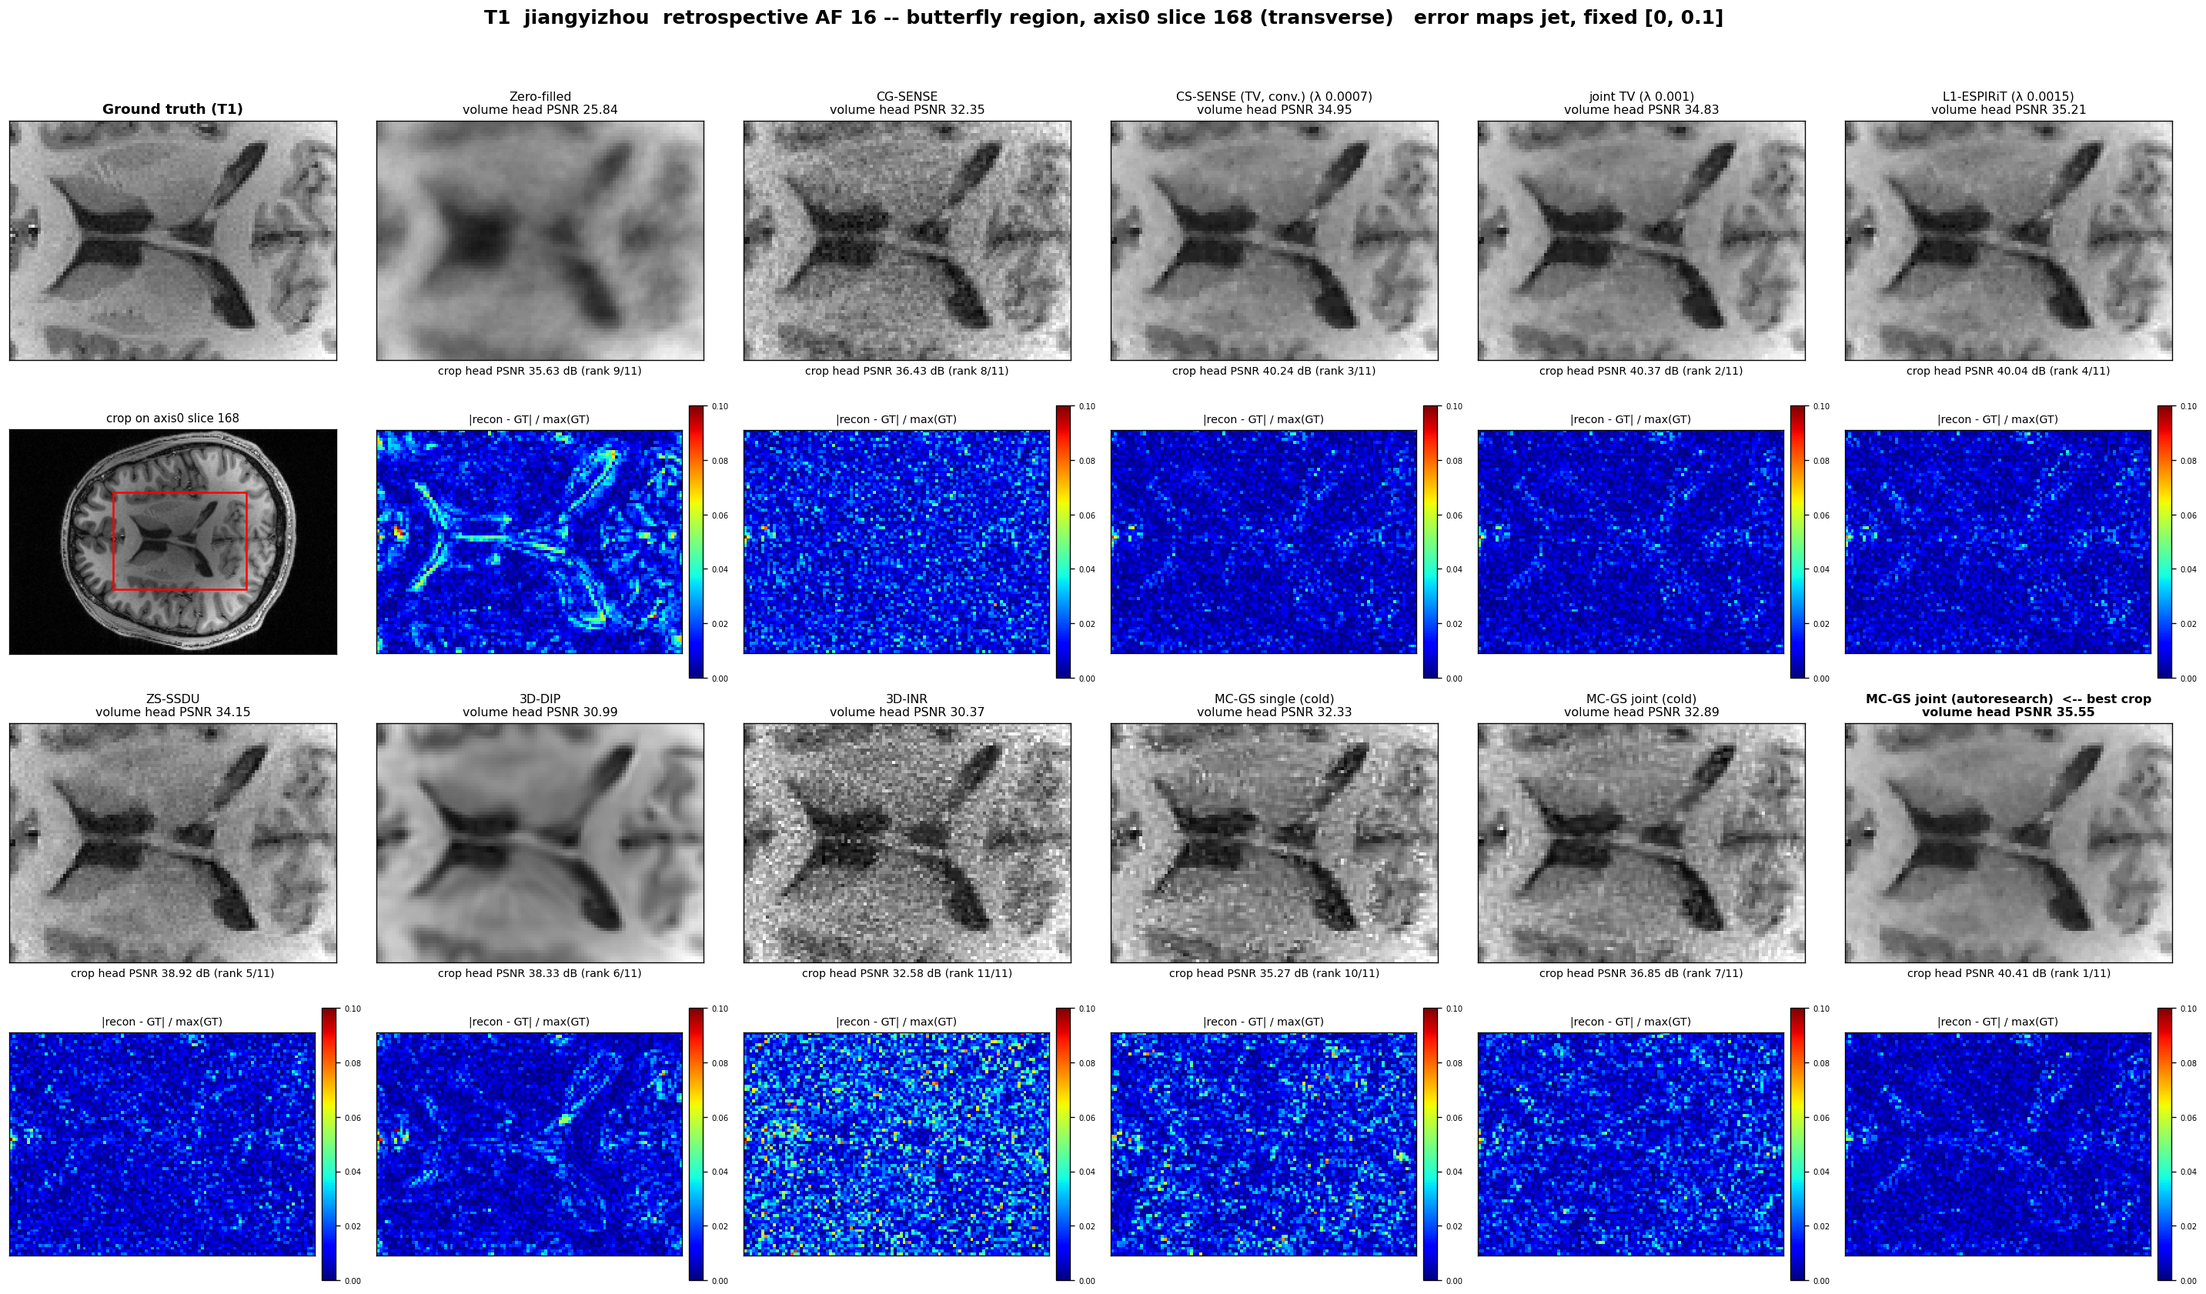
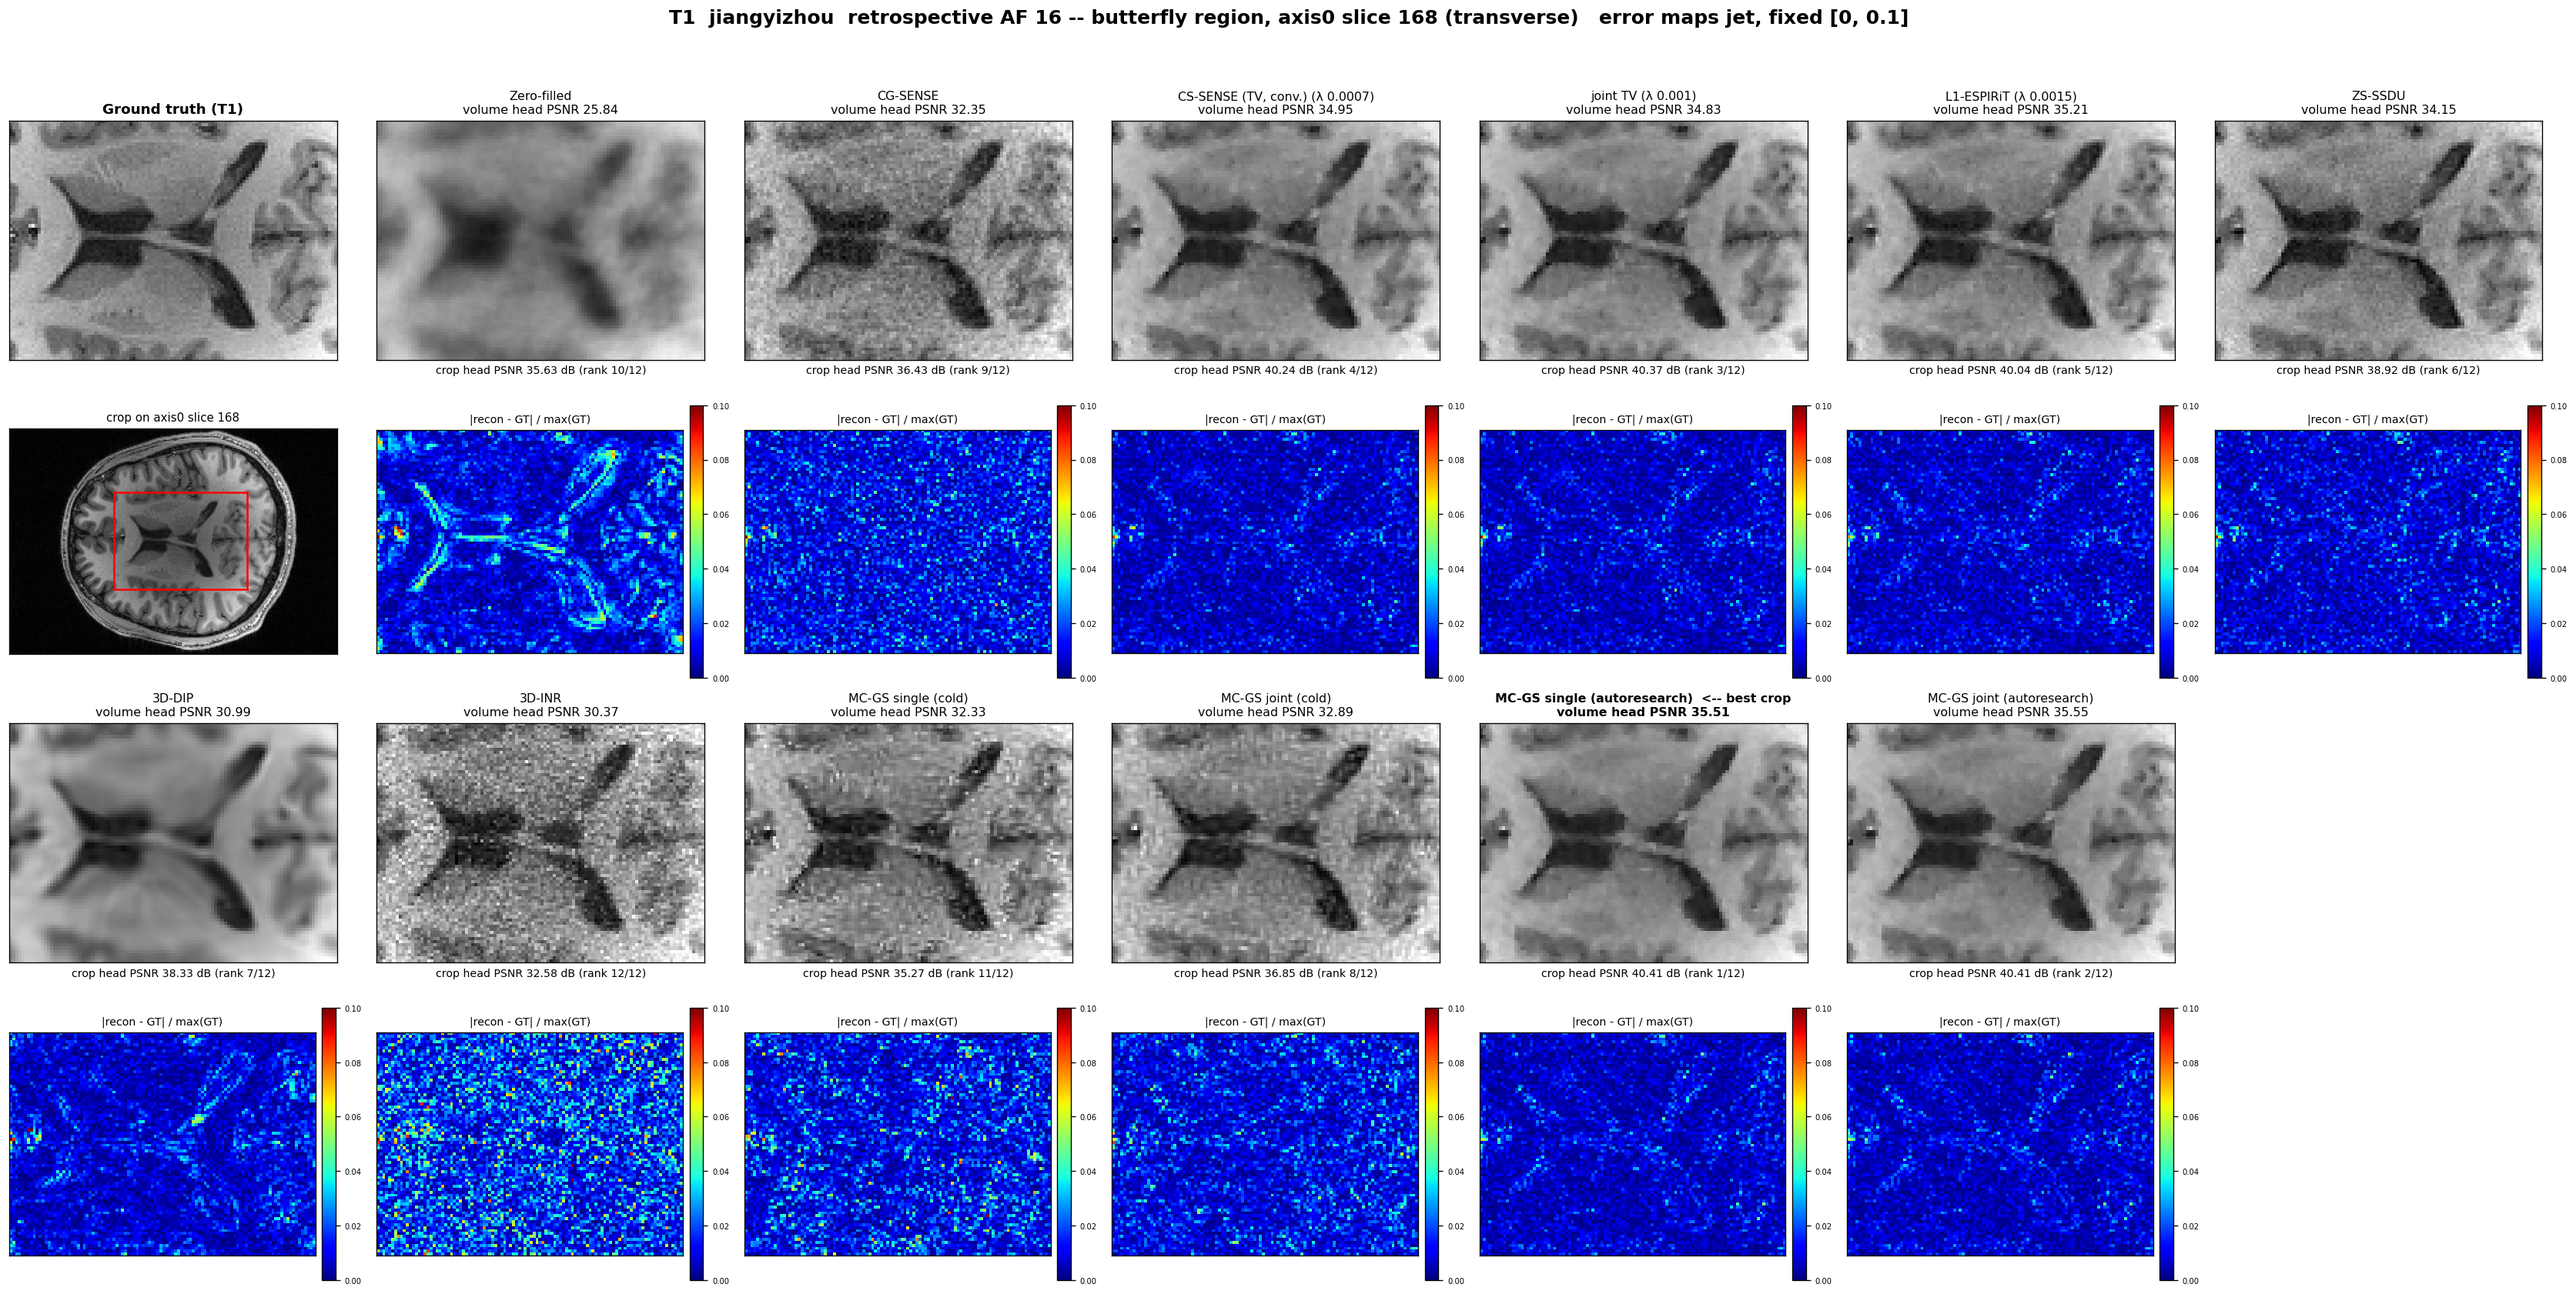
autoresearch jyz af16: verdict - objective met (first on head PSNR, SSIM, HFEN over L1-ESPIRiT; seed floor 0.002 dB); final README and figures with the single arms

diff --git a/autoresearch_jyz_af16.md b/autoresearch_jyz_af16.md
@@ -541,3 +541,22 @@ and the P6 seed repeat at 4000.
 = +0.037 dB); on FLAIR joint and single tie (−0.003 dB), both 0.30 dB above L1-ESPIRiT.** The shared geometry helps T1
 and is neutral for FLAIR, the same pattern as the old recipe (+0.098 / −0.009). Both arms are registered in the topic
 (`gs_joint_ar`, `gs_single_ar`) and shown in the final butterfly figures.
+- **Seed floor at the final recipe and budget** (`ar16_P6_seed43_full4k` vs `ar14_n36_v2tv_full4k`): 35.552 / 34.805 vs
+  35.552 / 34.807 — **0.000 / 0.002 dB**. The final margins over L1-ESPIRiT (+0.343 / +0.304) are ~150× the floor;
+  the FLAIR joint − single tie (−0.003) is at the floor.
+
+## Verdict (2026-09-11 03:50)
+
+**Objective met.** On jiangyizhou T1 + FLAIR at AF16, against a competitor table whose classical arms were re-run
+converged and λ-swept on this subject, the final MC-GS joint (repaired cold start, 3.6M points, edge-TV λ_geo 0.10 /
+κ_q 0.85, wavelet sparsity T1 0.10 / FLAIR 0.07, 4000 iterations) is **first of thirteen arms on head PSNR
+(+0.343 / +0.304 dB over L1-ESPIRiT), head SSIM and head HFEN in both contrasts**; sharpness stays 0.02 / 0.001 below
+L1-ESPIRiT. MC-GS single at the same recipe is second on T1 and ties the joint on FLAIR. The loop started 0.97 /
+0.95 dB behind at the frozen cold start. What moved it, in order of size: the wavelet-sparsity prior (+0.3–0.5 dB,
+imported from the hyw loop), capacity 1.2M → 3.6M under that prior (FLAIR +0.4 and +0.15), per-contrast wavelet
+strength (T1 +0.15), the full budget once T1's wavelet is strong (+0.1), and — last and decisively for the structural
+metrics — returning the edge-TV to its v2 strength once the wavelet carries the regularisation (+0.1 dB and HFEN
+below L1-ESPIRiT). Directional TV (λ_dtv), prewhitening, FLAIR-only high-band weight, faster LR decay, stronger TV
+and λ_geo 0.07 all lost. Caveats: one subject; the MC-GS knobs and the classical λ were both selected on this
+subject's ground truth (fair, not held out); two unexplained GPU stalls cost ~2 h and led to one trainer per card.
+The jyz AF12 transfer run of the final recipe (`ar17_P6_tf_jyz_af12_full4k`) is pending.

diff --git a/t1flair_af16_v3_jiangyizhou/README.md b/t1flair_af16_v3_jiangyizhou/README.md
@@ -30,6 +30,7 @@ numbers to quote. AF 12 values per arm from `../T1FLAIR_AF12_v3_jiangyizhou/logs
 | method | PSNR | SSIM | head PSNR | head SSIM | head HFEN | sharp | head PSNR @AF12 | AF16 − AF12 |
 |---|---|---|---|---|---|---|---|---|
 | MC-GS joint (autoresearch) | 39.016 | 0.9124 | **35.552** | **0.9351** | 0.1218 | 0.830 | -- | -- |
+| MC-GS single (autoresearch) | 38.988 | 0.9182 | 35.515 | 0.9343 | 0.1240 | 0.824 | -- | -- |
 | L1-ESPIRiT (λ 0.0015) | 38.758 | 0.9479 | 35.209 | 0.9334 | 0.1286 | 0.849 | 36.334 | -1.12 |
 | CS-SENSE (TV, converged) (λ 0.0007) | 38.646 | 0.9506 | 34.945 | 0.9317 | 0.1380 | 0.823 | 36.144 | -1.20 |
 | joint CS-SENSE (JTV) (λ 0.001) | 38.595 | 0.9514 | 34.831 | 0.9311 | 0.1429 | 0.811 | 36.070 | -1.24 |
@@ -46,7 +47,8 @@ numbers to quote. AF 12 values per arm from `../T1FLAIR_AF12_v3_jiangyizhou/logs
 
 | method | PSNR | SSIM | head PSNR | head SSIM | head HFEN | sharp | head PSNR @AF12 | AF16 − AF12 |
 |---|---|---|---|---|---|---|---|---|
-| MC-GS joint (autoresearch) | 38.342 | 0.9045 | **34.807** | **0.9203** | 0.1188 | 0.788 | -- | -- |
+| MC-GS single (autoresearch) | 38.288 | 0.8922 | **34.810** | 0.9196 | 0.1182 | 0.795 | -- | -- |
+| MC-GS joint (autoresearch) | 38.342 | 0.9045 | 34.807 | **0.9203** | 0.1188 | 0.788 | -- | -- |
 | L1-ESPIRiT (λ 0.003) | 38.027 | 0.9310 | 34.503 | 0.9201 | 0.1210 | 0.789 | 35.720 | -1.22 |
 | joint CS-SENSE (JTV) (λ 0.0007) | 38.048 | 0.9408 | 34.355 | 0.9177 | 0.1302 | 0.775 | 35.624 | -1.27 |
 | CS-SENSE (TV, converged) (λ 0.0005) | 37.904 | 0.9365 | 34.302 | 0.9180 | 0.1309 | 0.751 | 35.581 | -1.28 |
